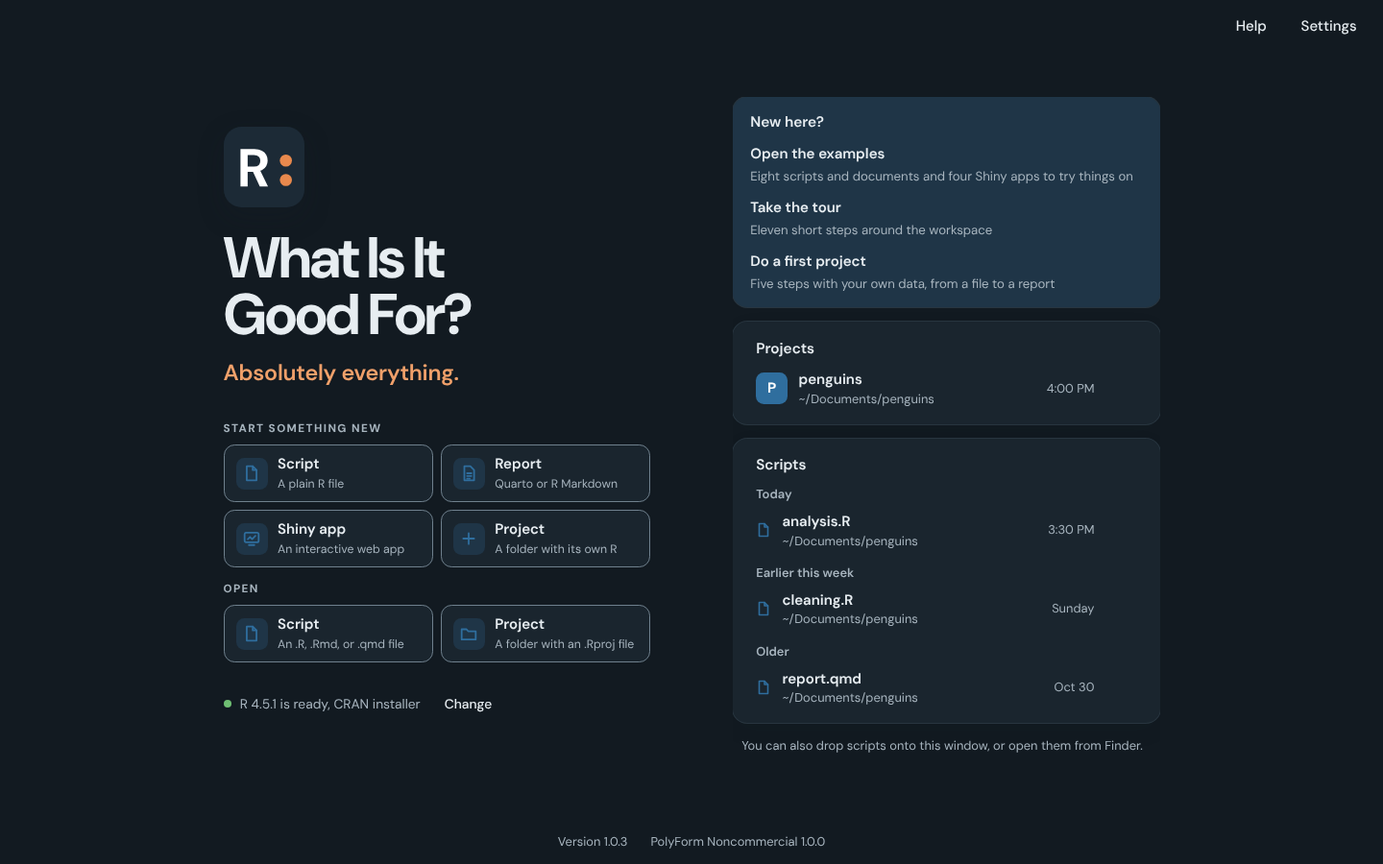
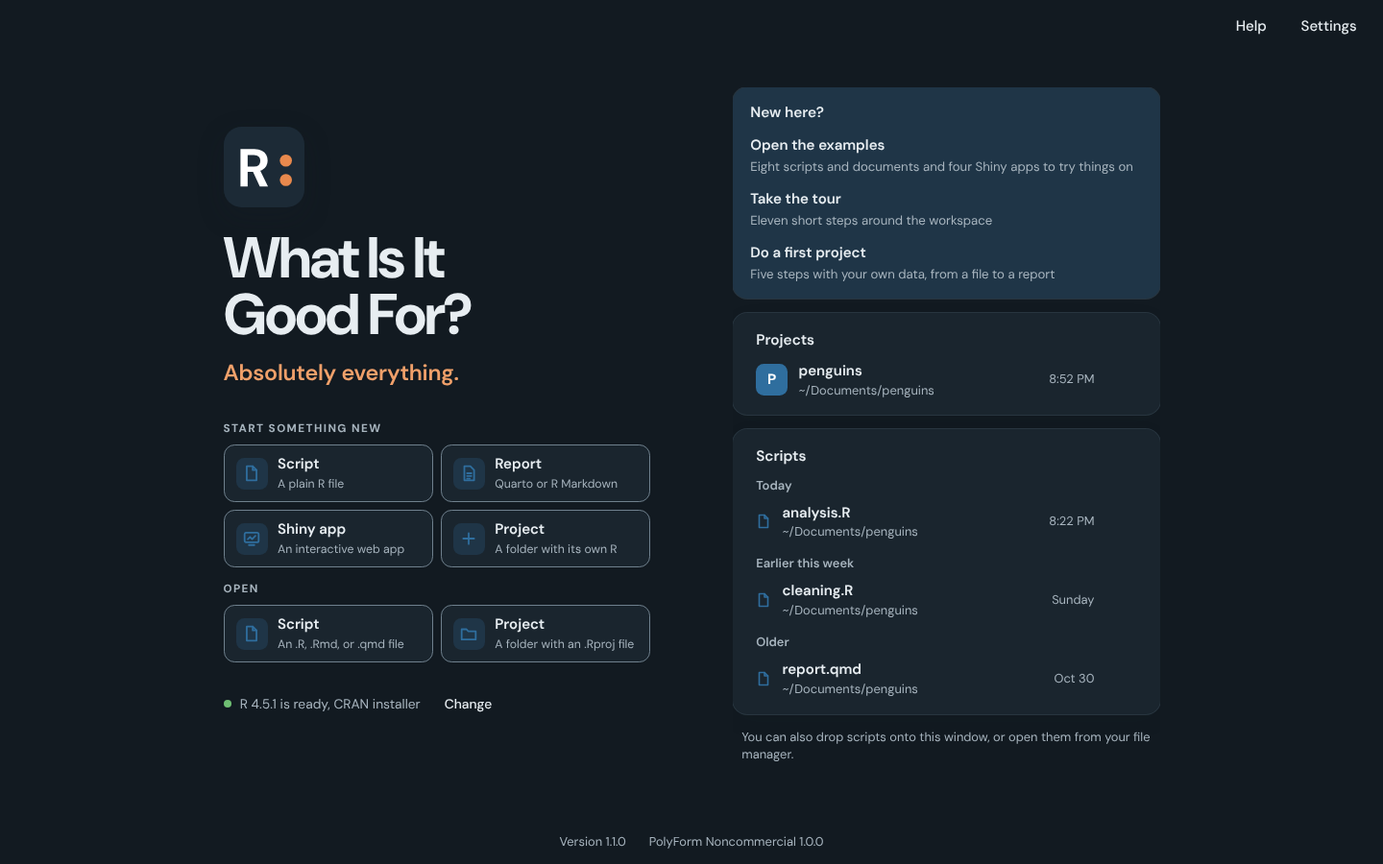
goodR 1.1.0
Version 1.1.0, with Linux and Windows as a preview. The README, the
privacy page, and the feature guide cover installing, checking, and
removing the app on each system, and where it keeps its files. The
developer guide covers building on Linux and Windows and making their
release. The opening screenshots show the new version, and the browser
stand-in offers the version after the current one, so the Updates test
holds whatever the version is.

diff --git a/src/lib/mockBackend.ts b/src/lib/mockBackend.ts
@@ -10,6 +10,13 @@ import type { Backend } from "./backend";
 import type { AnswerEvent, AppEvent, ExportEvent, AssistantTask, DataMeta, DataRow, MachineSpecs, ModelCatalog, ModelFit, ProjectInfo, REvent, RenderEvent, RenderResult, RenderTarget, RObject, SetupEvent, Settings } from "./types";
 import { version as packageVersion } from "../../package.json";
 
+/** A version one minor release above this one, so the Updates page always
+ * has a newer app to offer, whatever version the app itself is at. */
+const NEWER_APP = (() => {
+  const [major, minor] = packageVersion.split(".").map(Number);
+  return `${major}.${minor + 1}.0`;
+})();
+
 // Where the example scripts appear to live.
 const ROOT = "/Users/demo/Documents/penguins";
 
@@ -641,14 +648,14 @@ export function createMockBackend(): Backend {
     // page has something to show.
     latestVersions: async () => {
       await delay(80);
-      return { app: "1.1.0", appInPlace: true, appPage: "https://github.com/drabhikroy/goodR/releases/latest", r: "4.5.2", ollama: "0.41.0" };
+      return { app: NEWER_APP, appInPlace: true, appPage: "https://github.com/drabhikroy/goodR/releases/latest", r: "4.5.2", ollama: "0.41.0" };
     },
     installAppUpdate: async () => {
       for (const done of [2_000_000, 6_000_000, 12_000_000]) {
         await delay(60);
         for (const listener of updateListeners) listener({ done, total: 12_000_000 });
       }
-      return "1.1.0";
+      return NEWER_APP;
     },
     onUpdateProgress: async (listener) => {
       updateListeners.add(listener);

diff --git a/tests/ui/workflows.spec.ts b/tests/ui/workflows.spec.ts
@@ -941,7 +941,8 @@ test("everything that can be updated is listed on one page, and the app updates 
   await expect(list).toContainText("2 with newer versions");
   await expect(list).toContainText("ggplot2 3.5.0 to 3.5.2");
   await expect(list.getByRole("button", { name: "Get R 4.5.2" })).toBeVisible();
-  await list.getByRole("button", { name: "Update to 1.1.0" }).click();
+  // The stand-in offers the version after this one, whatever this one is.
+  await list.getByRole("button", { name: /^Update to \d+\.\d+\.\d+$/ }).click();
   await expect(list.getByRole("button", { name: "Restart to finish" })).toBeVisible();
   // Updating packages leaves the page open, and it looks again after.
   page.once("dialog", (question) => question.accept());

diff --git a/README.md b/README.md
@@ -1,14 +1,14 @@
 # R: What Is It Good For?
 
 [![License](https://img.shields.io/badge/license-PolyForm%20Noncommercial%201.0.0-blue)](LICENSE.md)
-[![Platform](https://img.shields.io/badge/platform-macOS-lightgray)](#requirements)
+[![Platform](https://img.shields.io/badge/platform-macOS%20%7C%20Linux%20%7C%20Windows-lightgray)](#requirements)
 ![Apple Silicon](https://img.shields.io/badge/Apple%20Silicon-arm64-black?logo=apple&logoColor=white)
 ![Intel](https://img.shields.io/badge/Intel-x86__64-black?logo=apple&logoColor=white)
 [![Release](https://img.shields.io/github/v/release/drabhikroy/goodR)](https://github.com/drabhikroy/goodR/releases)
 
 R: What Is It Good For? is a desktop application for writing and running R, the programming language used for statistics and data analysis. It is an integrated development environment, or IDE: one window for writing code, running it, and reading the result. Results appear next to the code that made them, and a failed line is explained in plain words instead of a bare error message. It suits a first script as well as a daily one, whether you are learning R, teaching it, or using it for research.
 
-The app is available for macOS today. Windows and Linux versions are planned.
+The app runs on macOS. Linux and Windows versions are available as a preview: they are built and tested by machine, and are waiting on reports from people using them on a real desktop.
 
 Everything runs on your computer. No account is needed, and the app collects no data about you or your work.
 
@@ -72,15 +72,16 @@ It never changes your files on its own. Saving, installing, and running happen o
 
 ## Requirements
 
-- macOS 12 Monterey or later
-- An Apple silicon or Intel Mac
-- R 4.2 or later
+- **macOS:** macOS 12 Monterey or later, on an Apple silicon or Intel Mac
+- **Linux (preview):** a 64-bit Intel or AMD computer running Ubuntu 22.04, Debian 12, or a newer release of either, or another current distribution
+- **Windows (preview):** Windows 10 or 11 on a 64-bit Intel or AMD computer
+- **R:** version 4.2 or later, on every system
 
-The app uses the R already on your computer. If you do not have R yet, install it before the app.
+The app uses the R already on your computer. If you do not have R yet, install it before the app. CRAN, the official download site, has R for each system.
 
-1. Open [R for macOS](https://cran.r-project.org/bin/macosx/) on CRAN, the official download site.
-2. Download the installer for your Mac. Choose arm64 for Apple silicon or x86_64 for Intel. To check which Mac you have, choose About This Mac from the Apple menu. A chip name that starts with Apple means Apple silicon.
-3. Open the downloaded file and follow the steps.
+- **macOS.** Open [R for macOS](https://cran.r-project.org/bin/macosx/). Download the installer for your Mac, arm64 for Apple silicon or x86_64 for Intel, then open it and follow the steps. To check which Mac you have, choose About This Mac from the Apple menu. A chip name that starts with Apple means Apple silicon.
+- **Linux.** Follow the steps for your distribution under [R for Linux](https://cran.r-project.org/bin/linux/). Ubuntu 22.04's own `r-base` package is R 4.1, which is too old, so on Ubuntu use CRAN's repository as those steps describe.
+- **Windows.** Open [R for Windows](https://cran.r-project.org/bin/windows/base/), download the installer, and open it. The usual choices are fine.
 
 Some features need a little more. The app tells you when something is missing.
 
@@ -90,53 +91,97 @@ Some features need a little more. The app tells you when something is missing.
 | Render Quarto documents | [Quarto](https://quarto.org/docs/get-started/) |
 | Make PDFs | LaTeX or Quarto. The app can install a small LaTeX for you |
 | Run Shiny apps | The shiny package, which the app offers to install |
-| Use the assistant | Ollama, which the app can install and run for you |
+| Use the assistant | [Ollama](https://ollama.com/download). On a Mac the app can install and run it for you |
 
 ## Install
 
-1. Download `goodR-1.0.3.pkg` from the [latest release](https://github.com/drabhikroy/goodR/releases/latest).
-2. Open it and follow the steps. macOS asks for an administrator password because the installer puts the app in your Applications folder.
-3. Open goodR from the Applications folder. It finds R and starts it. If there is more than one version of R it asks which one to use.
+Every installer is on the [latest release](https://github.com/drabhikroy/goodR/releases/latest) page. When goodR first opens it finds R and starts it. If there is more than one version of R, it asks which one to use. Quit goodR before installing a newer version over an older one.
 
-The installer is signed and notarized by Apple so macOS opens it without a warning. Quit goodR before installing a newer version over an older one.
+### macOS
+
+1. Download `goodR-1.1.0.pkg`.
+2. Open it and follow the steps. macOS asks for an administrator password because the installer puts the app in your Applications folder.
+3. Open goodR from the Applications folder.
+
+The installer is signed and notarized by Apple, so macOS opens it without a warning.
+
+### Linux (preview)
+
+On Ubuntu, Debian, and other systems that use `.deb` packages, download `goodR-1.1.0-amd64.deb` and install it with this command, run in the folder you downloaded it to.
+
+```bash
+sudo apt install ./goodR-1.1.0-amd64.deb
+```
+
+On any other distribution, download `goodR-1.1.0-x86_64.AppImage`, make it runnable, and open it.
+
+```bash
+chmod +x goodR-1.1.0-x86_64.AppImage
+./goodR-1.1.0-x86_64.AppImage
+```
+
+If the AppImage does not open, your system may need FUSE 2, which AppImages use. On Ubuntu 24.04 it installs with `sudo apt install libfuse2t64`, and other distributions name the package `fuse2` or `fuse-libs`.
+
+### Windows (preview)
+
+1. Download `goodR-1.1.0-x64-setup.exe` and open it.
+2. The installer is not yet signed, so Windows shows "Windows protected your PC" the first time. Choose More info, then Run anyway.
+3. Follow the steps. It installs for your account alone, so it needs no administrator password, and it adds goodR to the Start menu.
 
 ### Checking the download
 
-Each release includes `SHA256SUMS.txt`. Put it in the same folder as the installer and run this command. It should report `OK`.
+Each release lists a checksum for every installer: `SHA256SUMS.txt` for the Mac, `SHA256SUMS-linux.txt` for Linux, and `SHA256SUMS-windows.txt` for Windows. Put the file in the same folder as the installer and run the command for your system. On macOS and Linux it should report `OK`, and on Windows it should print `True`.
 
 ```bash
+# macOS
 shasum -a 256 -c SHA256SUMS.txt
+# Linux
+sha256sum -c --ignore-missing SHA256SUMS-linux.txt
+```
+
+```powershell
+# Windows, in PowerShell
+(Get-FileHash goodR-1.1.0-x64-setup.exe).Hash -eq (Get-Content SHA256SUMS-windows.txt).Split(" ")[0]
 ```
 
 ### Removing the app
 
-1. Quit goodR.
-2. Move goodR from the Applications folder to the Trash.
+Quit goodR first. Your scripts and reports stay where you saved them either way.
 
-Your scripts and reports stay where you saved them. To also remove the app's settings and saved versions, delete the folder `~/Library/Application Support/app.goodfor.ide`.
+- **macOS.** Move goodR from the Applications folder to the Trash.
+- **Linux.** For the `.deb`, run `sudo apt remove good-r`. For the AppImage, delete the file.
+- **Windows.** Open Settings, then Apps, then Installed apps, and choose Uninstall beside goodR.
+
+To also remove the app's settings and saved versions, delete its folders, listed under [Your data](#your-data).
 
 ## Using the app
 
 1. Open goodR. Start a new script, open one you already have, or choose **Open the examples**.
-2. Put the cursor on a line of code and press Command Return.
-3. The result appears on the right. Keep going line by line or press Shift Command Return to run the whole file.
+2. Put the cursor on a line of code and press Command Return on a Mac, or Ctrl Enter on Linux and Windows.
+3. The result appears on the right. Keep going line by line, or press Shift Command Return, or Ctrl Shift Enter, to run the whole file.
 
 New to the app? Choose **Take the tour** on the opening screen. It shows each part of the window in a couple of minutes.
 
-Help is under the Help menu or Shift Command /. It has a search box and answers to common questions. Each topic can point to the part of the window it describes. The keyboard shortcuts are listed in the [feature guide](docs/FEATURES.md#keyboard-shortcuts-and-sessions).
+Help is under the Help menu, or Shift Command / on a Mac and Ctrl Shift / elsewhere. It has a search box and answers to common questions. Each topic can point to the part of the window it describes. The keyboard shortcuts are listed in the [feature guide](docs/FEATURES.md#keyboard-shortcuts-and-sessions).
 
 ## Your data
 
 Your code and data stay on your computer. The app sends no usage data and no crash reports. The only connections it makes on its own are update checks. They ask GitHub, CRAN, and Ollama for version numbers and nothing else. You can set them to happen only when you ask.
 
-| What the app keeps | Where | How long it stays |
+The app keeps its own files in a folder named `app.goodfor.ide`, and where that folder is depends on the system.
+
+- **macOS:** `~/Library/Application Support/app.goodfor.ide`
+- **Linux:** `~/.config/app.goodfor.ide` for settings and earlier versions, and `~/.local/share/app.goodfor.ide` for the assistant and LaTeX
+- **Windows:** `%APPDATA%\app.goodfor.ide`
+
+| What the app keeps | Where, inside that folder | How long it stays |
 | --- | --- | --- |
-| Settings and recent files | `~/Library/Application Support/app.goodfor.ide/settings.json` | Until you reset the app or delete the file |
-| Earlier versions of each script | `~/Library/Application Support/app.goodfor.ide/history` | The latest 100 versions of each script |
+| Settings and recent files | `settings.json` | Until you reset the app or delete the file |
+| Earlier versions of each script | `history` | The latest 100 versions of each script |
 | Unsaved changes | The app's private storage | Until the file is saved or closed |
 | Recent results | The app's private storage | The latest 60, until you clear them |
-| The assistant's Ollama and models | `~/Library/Application Support/app.goodfor.ide/assistant` | Until you remove them from the assistant's setup |
-| The app's own LaTeX, if you install it | `~/Library/Application Support/app.goodfor.ide/TinyTeX` | Until you delete the folder |
+| The assistant's own copy of Ollama, on a Mac, and its models | `assistant` | Until you remove them from the assistant's setup |
+| The app's own LaTeX, if you install it | `TinyTeX` | Until you delete the folder |
 
 [Your files and your privacy](docs/PRIVACY.md) explains which files the app may open and what the assistant can see. See [The assistant](#the-assistant) below for what it can see once it is set up.
 
@@ -144,7 +189,7 @@ Your code and data stay on your computer. The app sends no usage data and no cra
 
 An optional assistant explains errors and code, and can draft R from a plain description of what you want. It runs entirely on your computer through [Ollama](https://ollama.com), free software that runs language models locally, so nothing you ask it is sent anywhere.
 
-Setting it up takes three steps. Choose the Ollama already on your Mac, or let the app install and verify a private copy. Optionally let the app check your Mac's memory and free disk space, so it can say which models will fit. Then choose a code model from a short list, each one showing what it is good and less good at. The app suggests the one that fits your Mac best, and you can add, remove, or switch models at any time.
+Setting it up takes three steps. Choose the Ollama already on your computer, or on a Mac let the app install and verify a private copy of its own. Optionally let the app check your computer's memory and free disk space, so it can say which models will fit. Then choose a code model from a short list, each one showing what it is good and less good at. The app suggests the one that fits your Mac best, and you can add, remove, or switch models at any time.
 
 The assistant sees the code you ask about, R's error message, your R version, and the names of your objects and columns. It never sees the values in your data.
 
@@ -160,7 +205,7 @@ The assistant sees the code you ask about, R's error message, your R version, an
 - **Screen readers.** Buttons and controls have names. Results and errors are announced as they happen without moving focus.
 - **More than color.** Each state has its own icon and words as well as its own color.
 - **Color vision.** Five palettes cover standard vision, deuteranopia, protanopia, tritanopia, and monochrome.
-- **Size and motion.** Text scales from 90 to 150 percent. Animation stops when Reduce Motion is on.
+- **Size and motion.** Text scales from 90 to 150 percent. Animation stops when the system is set to reduce motion.
 
 Automated tests cannot catch everything. If something gets in your way, please [open an issue](https://github.com/drabhikroy/goodR/issues). The full list is in [Accessibility](docs/ACCESSIBILITY.md).
 

diff --git a/docs/PRIVACY.md b/docs/PRIVACY.md
@@ -14,11 +14,13 @@ Help pages come from R itself. The app rebuilds them from a short list of allowe
 
 The list of files the app may open is kept in the app's own core, not in the interface, and the interface cannot add to it. A file you never chose stays out of reach. The Open, Save, and project folder dialogs run in that same core.
 
-## What the app keeps on your Mac
+## What the app keeps on your computer
 
-Settings, the lists of recent scripts and projects, and what to reopen at launch are kept in one file, `~/Library/Application Support/app.goodfor.ide/settings.json`. If that file gets damaged, the app sets it aside under a new name instead of deleting it.
+The app's own files go in a folder named `app.goodfor.ide`. On a Mac it is `~/Library/Application Support/app.goodfor.ide`. On Windows it is `%APPDATA%\app.goodfor.ide`. On Linux, settings and earlier versions are in `~/.config/app.goodfor.ide`, and the assistant and LaTeX are in `~/.local/share/app.goodfor.ide`.
 
-Each time you save a script, a copy of it is kept so you can compare with it or take it back later, at most one every five minutes and the last hundred for each script. The copies are in `~/Library/Application Support/app.goodfor.ide/history`, readable only by your user account, and they stay there even if you delete the script itself. Reset the app, with Earlier versions of files ticked, deletes them all.
+Settings, the lists of recent scripts and projects, and what to reopen at launch are kept in one file in that folder, `settings.json`. If that file gets damaged, the app sets it aside under a new name instead of deleting it.
+
+Each time you save a script, a copy of it is kept so you can compare with it or take it back later, at most one every five minutes and the last hundred for each script. The copies are in the `history` folder beside it, readable only by your user account, and they stay there even if you delete the script itself. Reset the app, with Earlier versions of files ticked, deletes them all.
 
 The results on the canvas, including printed output and plots, are kept in the app's own storage so they come back next time, at most the latest sixty, and only for saved scripts. Turning off Keep results for next time in Settings, clearing the canvas, or Reset the app with Results kept from last time ticked forgets them.
 
@@ -30,7 +32,7 @@ The data viewer asks R for one page of rows at a time and keeps nothing once you
 
 On its own, the app only goes online to check for updates. It asks GitHub, CRAN, and Ollama for the newest version numbers of the app, R, your packages, and Ollama, and sends nothing else. In Settings, under Updates, you can choose to check only when you ask. Nothing is installed until you press its button.
 
-The optional assistant downloads Ollama and its models when you set it up, and after that it runs entirely on your Mac.
+The optional assistant downloads Ollama and its models when you set it up, and after that it runs entirely on your computer.
 
 ## What R itself can do
 
@@ -42,9 +44,9 @@ The assistant is optional. It stays off until you set it up from its button on t
 
 Setting it up takes three steps.
 
-1. Ollama. You can use the Ollama already on your Mac, or install a private copy inside the app. The private copy is Ollama 0.40.3, a 167 MB download. The app checks it against Ollama's published SHA-256 before unpacking it. It lives in `~/Library/Application Support/app.goodfor.ide/assistant`, runs only while the app is open, stops by itself within a few seconds if the app closes unexpectedly, uses a port of its own, and can be removed, along with its models, from the same screen.
-2. This Mac. If you agree, the app reads your Mac's memory, free disk space, and chip, so it can mark which models will fit. You can skip this step. Nothing is saved or sent.
-3. Models. You choose from a short list of free code models: Qwen2.5 Coder in three sizes, and Qwen3 Coder. Each one says what it does well and less well when helping with R, how much it downloads, and whether it fits your Mac. The app suggests the largest one that fits comfortably. Models you already downloaded with Ollama are found and can be used, and you can add, remove, or switch models at any time.
+1. Ollama. You can use the Ollama already on your computer, or on a Mac install a private copy inside the app. On Linux and Windows, install Ollama from ollama.com first. The private copy is Ollama 0.40.3, a 167 MB download. The app checks it against Ollama's published SHA-256 before unpacking it. It lives in the `assistant` folder inside the app's folder, runs only while the app is open, stops by itself within a few seconds if the app closes unexpectedly, uses a port of its own, and can be removed, along with its models, from the same screen.
+2. This computer, named This Mac on a Mac. If you agree, the app reads your computer's memory, free disk space, and chip, so it can mark which models will fit. You can skip this step. Nothing is saved or sent.
+3. Models. You choose from a short list of free code models: Qwen2.5 Coder in three sizes, and Qwen3 Coder. Each one says what it does well and less well when helping with R, how much it downloads, and whether it fits your computer. The app suggests the largest one that fits comfortably. Models you already downloaded with Ollama are found and can be used, and you can add, remove, or switch models at any time.
 
 <picture>
   <source media="(prefers-color-scheme: dark)" srcset="images/assistant-setup-dark.png">

diff --git a/docs/DEVELOPING.md b/docs/DEVELOPING.md
@@ -145,6 +145,17 @@ synced.
 `npm run dev` alone serves the interface in a browser with a stand-in for
 R, which is handy for working on layout.
 
+On Linux, Tauri also needs WebKitGTK and a few other system libraries.
+On Debian and Ubuntu they install with this command.
+
+```bash
+sudo apt install libwebkit2gtk-4.1-dev libayatana-appindicator3-dev librsvg2-dev patchelf
+```
+
+On Windows, Rust needs the Microsoft C++ Build Tools, and the app needs
+WebView2, which Windows 11 already has. Run the commands above from Git
+Bash or PowerShell.
+
 ## Tests and standards gates
 
 ```bash
@@ -200,6 +211,19 @@ Build outside iCloud Drive. Folders that iCloud syncs, including
 `~/Documents` and `~/Desktop` when Desktop and Documents syncing is on,
 attach extended attributes that `codesign` refuses.
 
+On Linux, the same command with `--bundles deb,appimage` makes a Debian
+package and an AppImage. On Windows, `--bundles nsis` makes an installer
+that installs for the current user, with no administrator password, and
+fetches WebView2 if Windows lacks it. Each is built on the system it is
+for, after `node scripts/fetch-ark.mjs` has placed that system's ark.
+
+Three things differ on Windows, and the code handles each. ark finds
+R.dll through the PATH, so R's `bin\x64` folder is put first on the PATH
+ark starts with. Every program the app starts is started with no console
+window, since Windows would otherwise flash one open for each run. And
+Stop ends a render's whole process tree with `taskkill /T`, since Windows
+has no process groups.
+
 ## Code signing and verification
 
 The Mac app is signed with a Developer ID Application certificate, uses the
@@ -225,7 +249,7 @@ The app is built under `/private/tmp/goodr-target`, outside the project folder, 
 Release notes live in `docs/release-notes`, one file per version tag. To make a draft release from them, run this command.
 
 ```bash
-gh release create v1.0.3 goodR-1.0.3.pkg SHA256SUMS.txt --draft --title "goodR 1.0.3" --notes-file docs/release-notes/v1.0.3.md
+gh release create v1.1.0 goodR-1.1.0.pkg SHA256SUMS.txt --draft --title "goodR 1.1.0" --notes-file docs/release-notes/v1.1.0.md
 ```
 
 The same release can be built on GitHub Actions by `.github/workflows/release-macos.yml`. It runs only by hand, with `gh workflow run release-macos.yml --ref v1.2.3`. It needs these repository secrets.
@@ -253,11 +277,39 @@ secrets `TAURI_SIGNING_PRIVATE_KEY` and
 the release is published. A build without them still works, and its
 Updates page links to the release page instead.
 
+### Linux and Windows releases
+
+The Linux and Windows installers are built on GitHub Actions by
+`.github/workflows/release-linux-windows.yml`, since neither can be built
+on a Mac. It runs only by hand, on a version tag, so the tag goes up
+first. The workflow builds both, then adds `goodR-VERSION-amd64.deb`,
+`goodR-VERSION-x86_64.AppImage`, `goodR-VERSION-x64-setup.exe`,
+`SHA256SUMS-linux.txt`, and `SHA256SUMS-windows.txt` to the draft release
+for that tag. If the Mac draft is already there it joins it, and if not
+it starts the draft. Each system has its own checksum file, so the Mac's
+`SHA256SUMS.txt` is never replaced.
+
+```bash
+git tag v1.2.3
+git push origin v1.2.3
+scripts/release-mac.sh
+gh release create v1.2.3 goodR-1.2.3.pkg SHA256SUMS.txt --draft --title "goodR 1.2.3" --notes-file docs/release-notes/v1.2.3.md
+gh workflow run release-linux-windows.yml --ref v1.2.3
+```
+
+Both are previews until they have been tried on a real desktop. The
+Windows installer is not code signed, so Windows shows "Windows protected
+your PC" the first time it opens, and More info, then Run anyway, goes
+past it. Neither build carries the update key, so on Linux and Windows
+the Updates page links to the release page.
+
+### Checking the Mac installer
+
 To check a finished installer, and then an installed copy, run these commands.
 
 ```bash
-pkgutil --check-signature goodR-1.0.3.pkg
-spctl --assess --type install --verbose=4 goodR-1.0.3.pkg
+pkgutil --check-signature goodR-1.1.0.pkg
+spctl --assess --type install --verbose=4 goodR-1.1.0.pkg
 codesign --verify --deep --strict --verbose=4 "/Applications/goodR.app"
 spctl --assess --type execute --verbose=4 "/Applications/goodR.app"
 ```

diff --git a/docs/release-notes/v1.1.0.md b/docs/release-notes/v1.1.0.md
@@ -1,0 +1,32 @@
+goodR now runs on Linux and Windows as well as the Mac. The Linux and Windows versions are a preview: they are built and tested by machine, and are waiting on reports from people using them on a real desktop. If you already have goodR on a Mac, install this version over it. Your settings, projects, and scripts stay as they are.
+
+## New
+
+- **Linux (preview).** A Debian package for Ubuntu, Debian, and other systems that use `.deb` files, and an AppImage for any other distribution. Installing the Debian package teaches the system what R scripts, R Markdown, and Quarto documents are, so goodR is offered when you open one from your file manager.
+- **Windows (preview).** An installer for Windows 10 and 11 that installs for your account alone, with no administrator password. The installer is not yet code signed, so Windows shows "Windows protected your PC" the first time it is opened. Choose More info, then Run anyway.
+- On both, a script opened while goodR is running opens as a tab in the window you already have, and the keyboard shortcuts use Ctrl where a Mac uses Command.
+
+## Good to know on Linux and Windows
+
+- goodR uses the R already on your computer, as on a Mac. It needs R 4.2 or later. On Ubuntu 22.04 the system's own R is older than that, so install R from CRAN's repository instead.
+- The assistant works with the Ollama you install from ollama.com. Only the Mac version can install a private copy of Ollama for you.
+- Updates are offered through the release page, not installed from inside the app.
+
+## Changed
+
+- The assistant's setup and the opening screen name the computer and its file manager the way each system does, such as this computer and File Explorer on Windows.
+- The first example script gives the run shortcut for every system.
+
+## Install
+
+Every installer and its checksum file are listed below. The [README](https://github.com/drabhikroy/goodR#install) has the steps for each system, and how to check a download.
+
+- **Mac:** `goodR-1.1.0.pkg`, with `SHA256SUMS.txt`
+- **Linux:** `goodR-1.1.0-amd64.deb` or `goodR-1.1.0-x86_64.AppImage`, with `SHA256SUMS-linux.txt`
+- **Windows:** `goodR-1.1.0-x64-setup.exe`, with `SHA256SUMS-windows.txt`
+
+The Mac installer is signed and notarized by Apple, so it opens without a security warning.
+
+## Feedback
+
+This is the first release on Linux and Windows, so reports from those systems are especially welcome, whether something works or not. Please [open an issue](https://github.com/drabhikroy/goodR/issues) and say which system and version you are on.

diff --git a/docs/FEATURES.md b/docs/FEATURES.md
@@ -152,8 +152,8 @@ app reconnects to the R already running, so your objects and unsaved edits
 are kept.
 
 Every project has its own R, and so does every script that belongs to no
-project. Open a script from anywhere (Finder, the Open dialog, or the recent
-list) and the app looks for a `.Rproj` in the folders above it. If it finds
+project. Open a script from anywhere (Finder, File Explorer, or another file
+manager, the Open dialog, or the recent list) and the app looks for a `.Rproj` in the folders above it. If it finds
 one, the script runs in that project's R, beside the project's other
 scripts. If not, the script gets an R of its own, started in its folder, so
 `"data.csv"` means the file beside it. Several projects can be open at once.
@@ -478,8 +478,8 @@ any command by name.
 ## The optional assistant
 
 The assistant runs on your own computer, and you set it up in three steps.
-Use the Ollama already on your Mac or a private copy kept inside the app, let
-the app check your Mac's memory and disk if you wish, and choose a model from
+Use the Ollama already on your computer or, on a Mac, a private copy kept
+inside the app, let the app check your computer's memory and disk if you wish, and choose a model from
 a short list that says what each one is good and weaker at. Only code models
 are listed, since they write R that runs.
 
